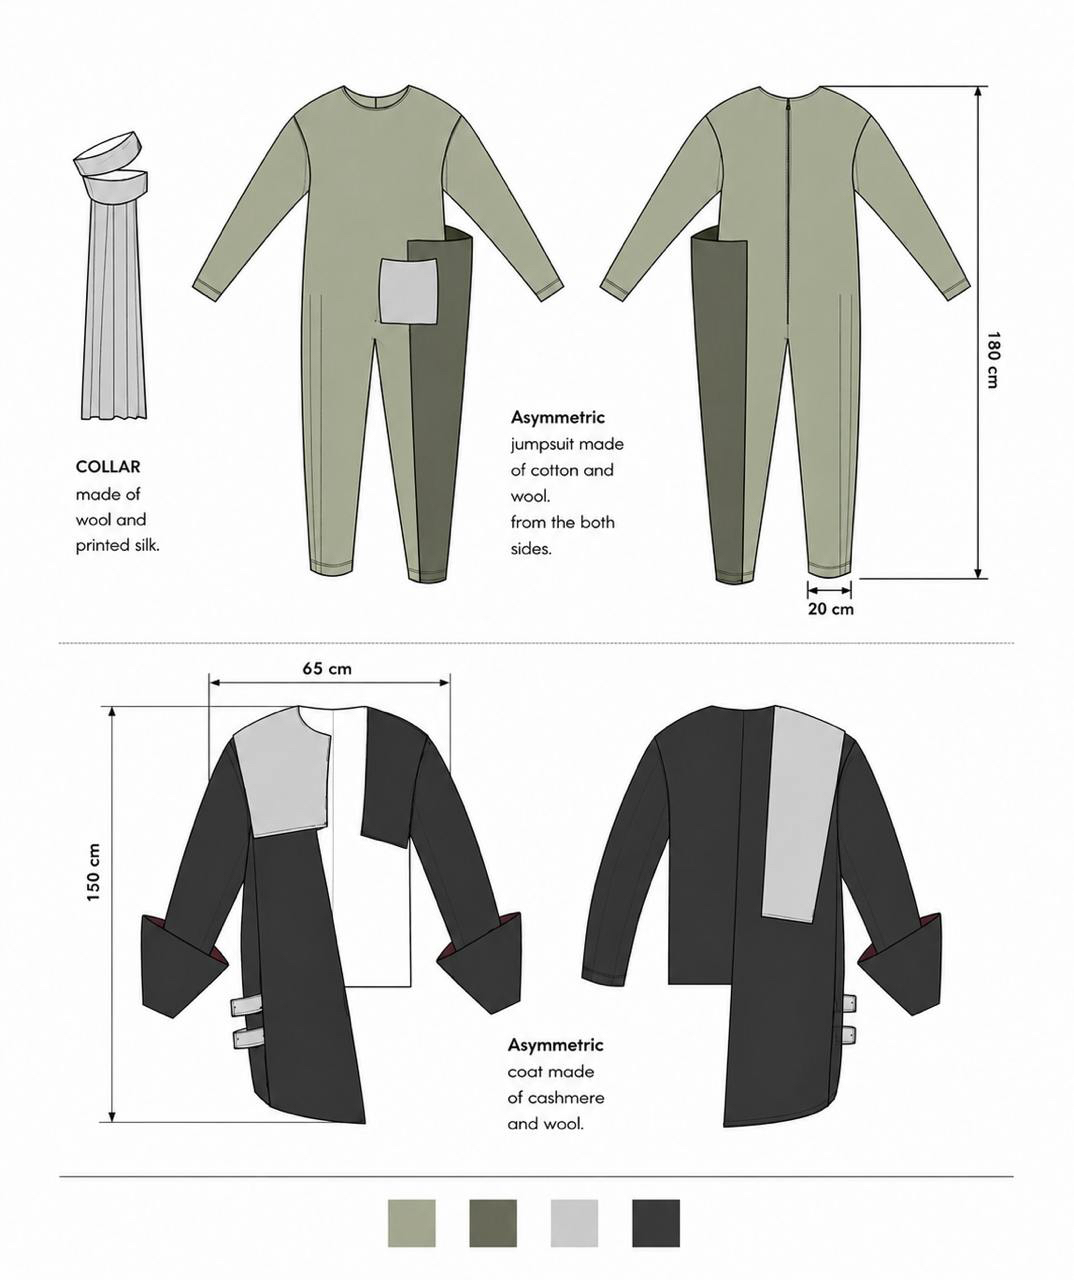
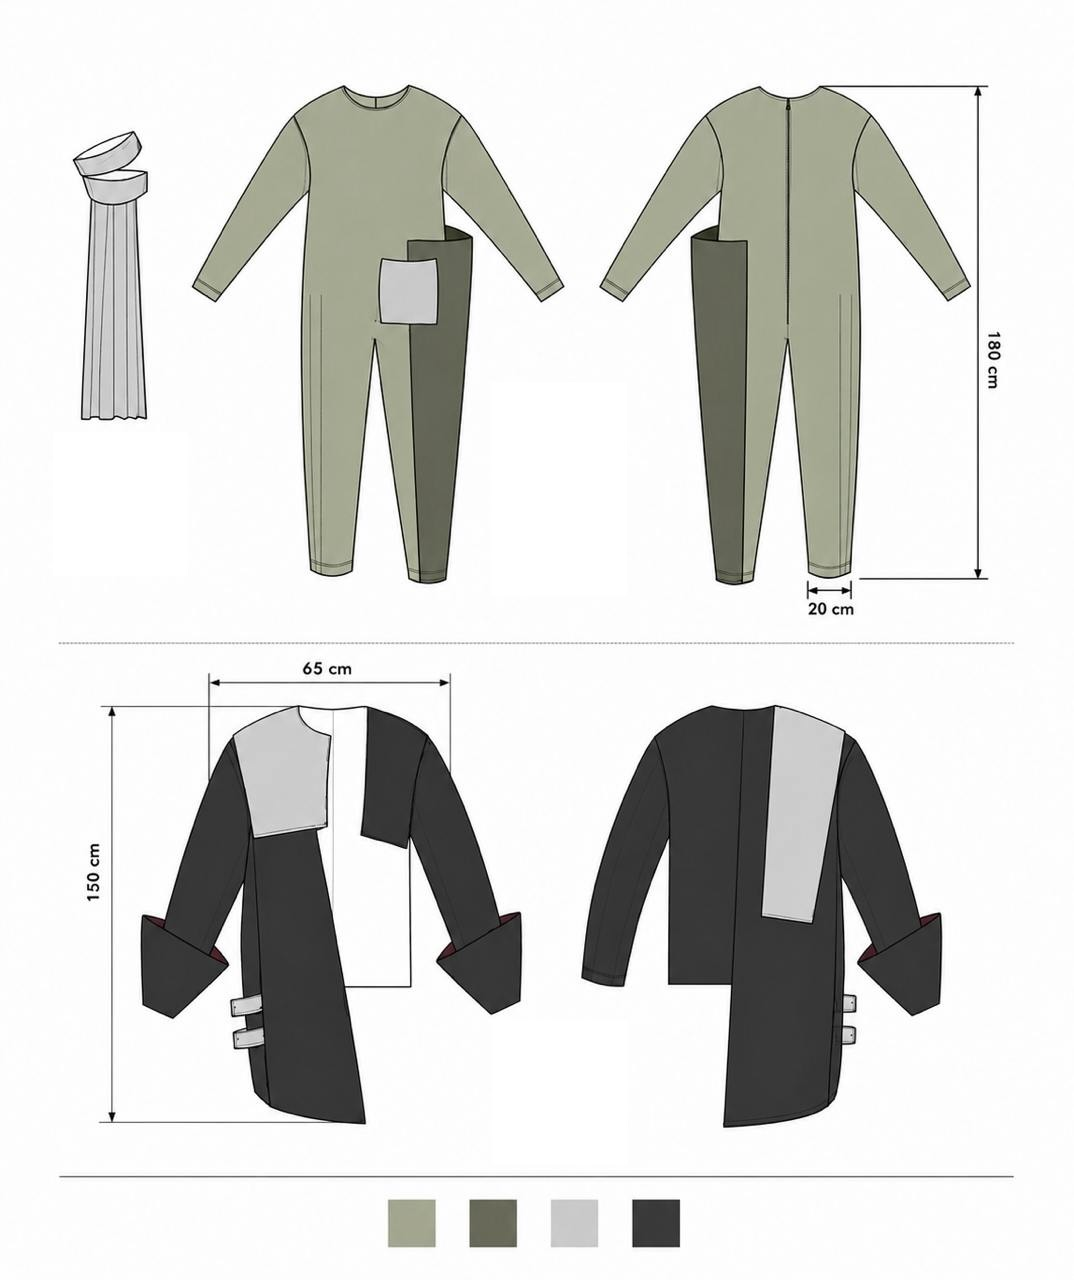
Update technical drawings and add specifications for Fear Outfit 3, Outfit 5, and Between Worlds Outfits 1-2

Changed region(s): [[0.4609, 0.3125, 0.5838, 0.4375], [0.4609, 0.8125, 0.5531, 0.9062], [0.0615, 0.3438, 0.1536, 0.4375]]

diff --git a/script.js b/script.js
@@ -148,9 +148,44 @@ Material: Wool-Blend Fabric
                     { image: 'images/fear-outfit3-e.jpg', alt: 'Fear Into Freedom - Outfit 3, 2023' }
                 ],
                 technicalDrawings: [
-                    { image: 'images/fear-outfit3-tech-a.jpg', alt: 'Fear Into Freedom - Outfit 3 Technical Drawing 1, 2023' },
-                    { image: 'images/fear-outfit3-tech-b.jpg', alt: 'Fear Into Freedom - Outfit 3 Technical Drawing 2, 2023' },
-                    { image: 'images/fear-outfit3-tech-c.jpg', alt: 'Fear Into Freedom - Outfit 3 Technical Drawing 3, 2023' }
+                    { 
+                        image: 'images/fear-outfit3-tech-a.jpg', 
+                        alt: 'Fear Into Freedom - Outfit 3 Technical Drawing 1, 2023',
+                        specifications: `FULL-BODY BANDAGE
+Reflective fabric with Persian handwritten script
+
+— Full-length bandage construction in reflective material
+— Surface covered entirely in Persian handwritten text, applied by hand
+— Spiralling wrap silhouette suggesting movement, memory and unravelling
+— Dual-panel construction — front and back views show continuous script narrative
+— Conceptual piece: the body as archive, text as second skin`
+                    },
+                    { 
+                        image: 'images/fear-outfit3-tech-b.jpg', 
+                        alt: 'Fear Into Freedom - Outfit 3 Technical Drawing 2, 2023',
+                        specifications: `TROUSERS
+Wool-blend fabric
+
+— High-waisted slim-fit silhouette
+— Structured waistband with front dart detail
+— Sculptural front panel with asymmetric curved seam construction
+— Concealed side zip closure
+— Concealed in-seam side pockets
+— Tapered ankle hem`
+                    },
+                    { 
+                        image: 'images/fear-outfit3-tech-c.jpg', 
+                        alt: 'Fear Into Freedom - Outfit 3 Technical Drawing 3, 2023',
+                        specifications: `CROPPED JACKET
+Synthetic fur fabric
+
+— Cropped voluminous silhouette with dramatic dropped shoulders
+— Exaggerated oversized sleeves with rounded hem
+— Open front — no closure
+— Sculptural three-dimensional sleeve construction with layered volume
+— Stand collar with open neckline
+— Front and back views show consistent volume and weight`
+                    }
                 ]
             },
             {
@@ -237,7 +272,37 @@ Wool-blend fabric with hand-embroidered mesh
                     { image: 'images/worlds-outfit1-g.jpg', alt: 'Between Worlds - Outfit 1, 2022' }
                 ],
                 technicalDrawings: [
-                    { image: 'images/worlds-outfit1-tech-a.jpg', alt: 'Between Worlds - Outfit 1 Technical Drawing, 2022' }
+                    { 
+                        image: 'images/worlds-outfit1-tech-a.jpg', 
+                        alt: 'Between Worlds - Outfit 1 Technical Drawing, 2022',
+                        specifications: `ASYMMETRIC JUMPSUIT
+Cotton & Wool fabric
+
+— Relaxed full-length silhouette
+— Crew neckline with concealed back zip closure
+— Set-in sleeves with ribbed cuff finish
+— Asymmetric colour-block construction — contrasting tonal panels on front and back
+— Oversized patch pocket on front hip
+— Dual-fabric panel construction visible from both sides
+
+COLLAR
+Wool & Printed Silk
+
+— Detachable stand collar
+— Structured wool base with draped silk overlay
+— Gathered and pleated silk panel
+— Worn as independent accessory piece
+
+ASYMMETRIC COAT
+Cashmere & Wool fabric
+
+— Longline open-front silhouette — no closure
+— Asymmetric colour-block shoulder panel in contrast fabric
+— Contrasting burgundy cuff lining detail
+— Wide structured cuffs with double buckle strap fastening
+— Side slit hem construction
+— Tonal contrast panel visible on back`
+                    }
                 ]
             },
             {
@@ -255,8 +320,42 @@ Wool-blend fabric with hand-embroidered mesh
                     { image: 'images/worlds-outfit2-i.jpg', alt: 'Between Worlds - Outfit 2, 2022' }
                 ],
                 technicalDrawings: [
-                    { image: 'images/worlds-outfit2-tech-a.jpg', alt: 'Between Worlds - Outfit 2 Technical Drawing 1, 2022' },
-                    { image: 'images/worlds-outfit2-tech-b.jpg', alt: 'Between Worlds - Outfit 2 Technical Drawing 2, 2022' }
+                    { 
+                        image: 'images/worlds-outfit2-tech-a.jpg', 
+                        alt: 'Between Worlds - Outfit 2 Technical Drawing 1, 2022',
+                        specifications: `SYMMETRIC TROUSERS
+Cotton fabric · Olive & White
+
+— High-waisted with wide structured olive waistband
+— Asymmetric balloon silhouette — exaggerated volume at hip and thigh
+— Concealed side panel with contrast insert
+— Back button closure at waistband
+— Side zip fastening
+— Cropped wide hem opening
+— Knitted ocher socks styled as part of the outfit`
+                    },
+                    { 
+                        image: 'images/worlds-outfit2-tech-b.jpg', 
+                        alt: 'Between Worlds - Outfit 2 Technical Drawing 2, 2022',
+                        specifications: `ASYMMETRIC HOODIE
+Cotton-blend fabric · Olive & White colour-block
+
+— Cropped asymmetric silhouette
+— Raglan sleeve construction in contrast olive fabric
+— Large integrated hood with front zip closure and adjustable toggle
+— Colour-block panelling — olive sleeves and hood, white body
+— Asymmetric curved hem
+— Ribbed cuff detail on sleeves
+
+VEST / HOOD
+Wool fabric · Charcoal & Light Grey
+
+— Structured bib-shaped vest construction
+— Asymmetric colour-block — charcoal and light grey panels
+— Tonal topstitching detail on front
+— Ribbed hem band
+— Wearable as standalone vest or hood accessory piece`
+                    }
                 ]
             }
         ]
